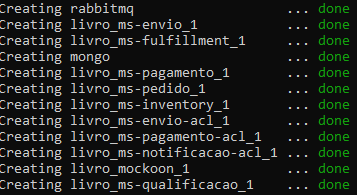
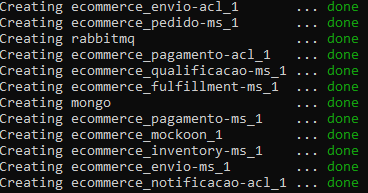
ajuste no cap10

diff --git a/cap10/execucao/implementacao/build-deploy-solucao.md b/cap10/execucao/implementacao/build-deploy-solucao.md
@@ -8,19 +8,19 @@
 
 **Objetivo**: Baixar o código fonte do capítulo 10 do _Github_ para o seu ambiente local _Linux_.
 
-1. Faça o clone do projeto
+1. Faça o clone do projeto em alguma pasta de sua preferência. Por exemplo, `/opt`
 
 ```
 git clone https://github.com/rpicanco/livro-eda.git
 ``` 
 
-2. Copie o código fonte do capítulo 10 (https://github.com/rpicanco/livro-eda/tree/main/cap10/src) em alguma pasta de sua preferência
+2. Entre na pasta **/cap10/src/ecommerce**.
 
 ## Build e deploy da solução
 
 **Objetivo**: Contruir e deployar todos os componentes da solução no seu ambiente local _Linux_.
 
-1. Entre na pasta onde está o código fonte baixado do _Github_
+1. Entre na pasta onde está o código fonte baixado do _Github_ (**/cap10/src/ecommerce**)
 
 2. Realizar o build e inicialização dos componentes através do _Make_
 
